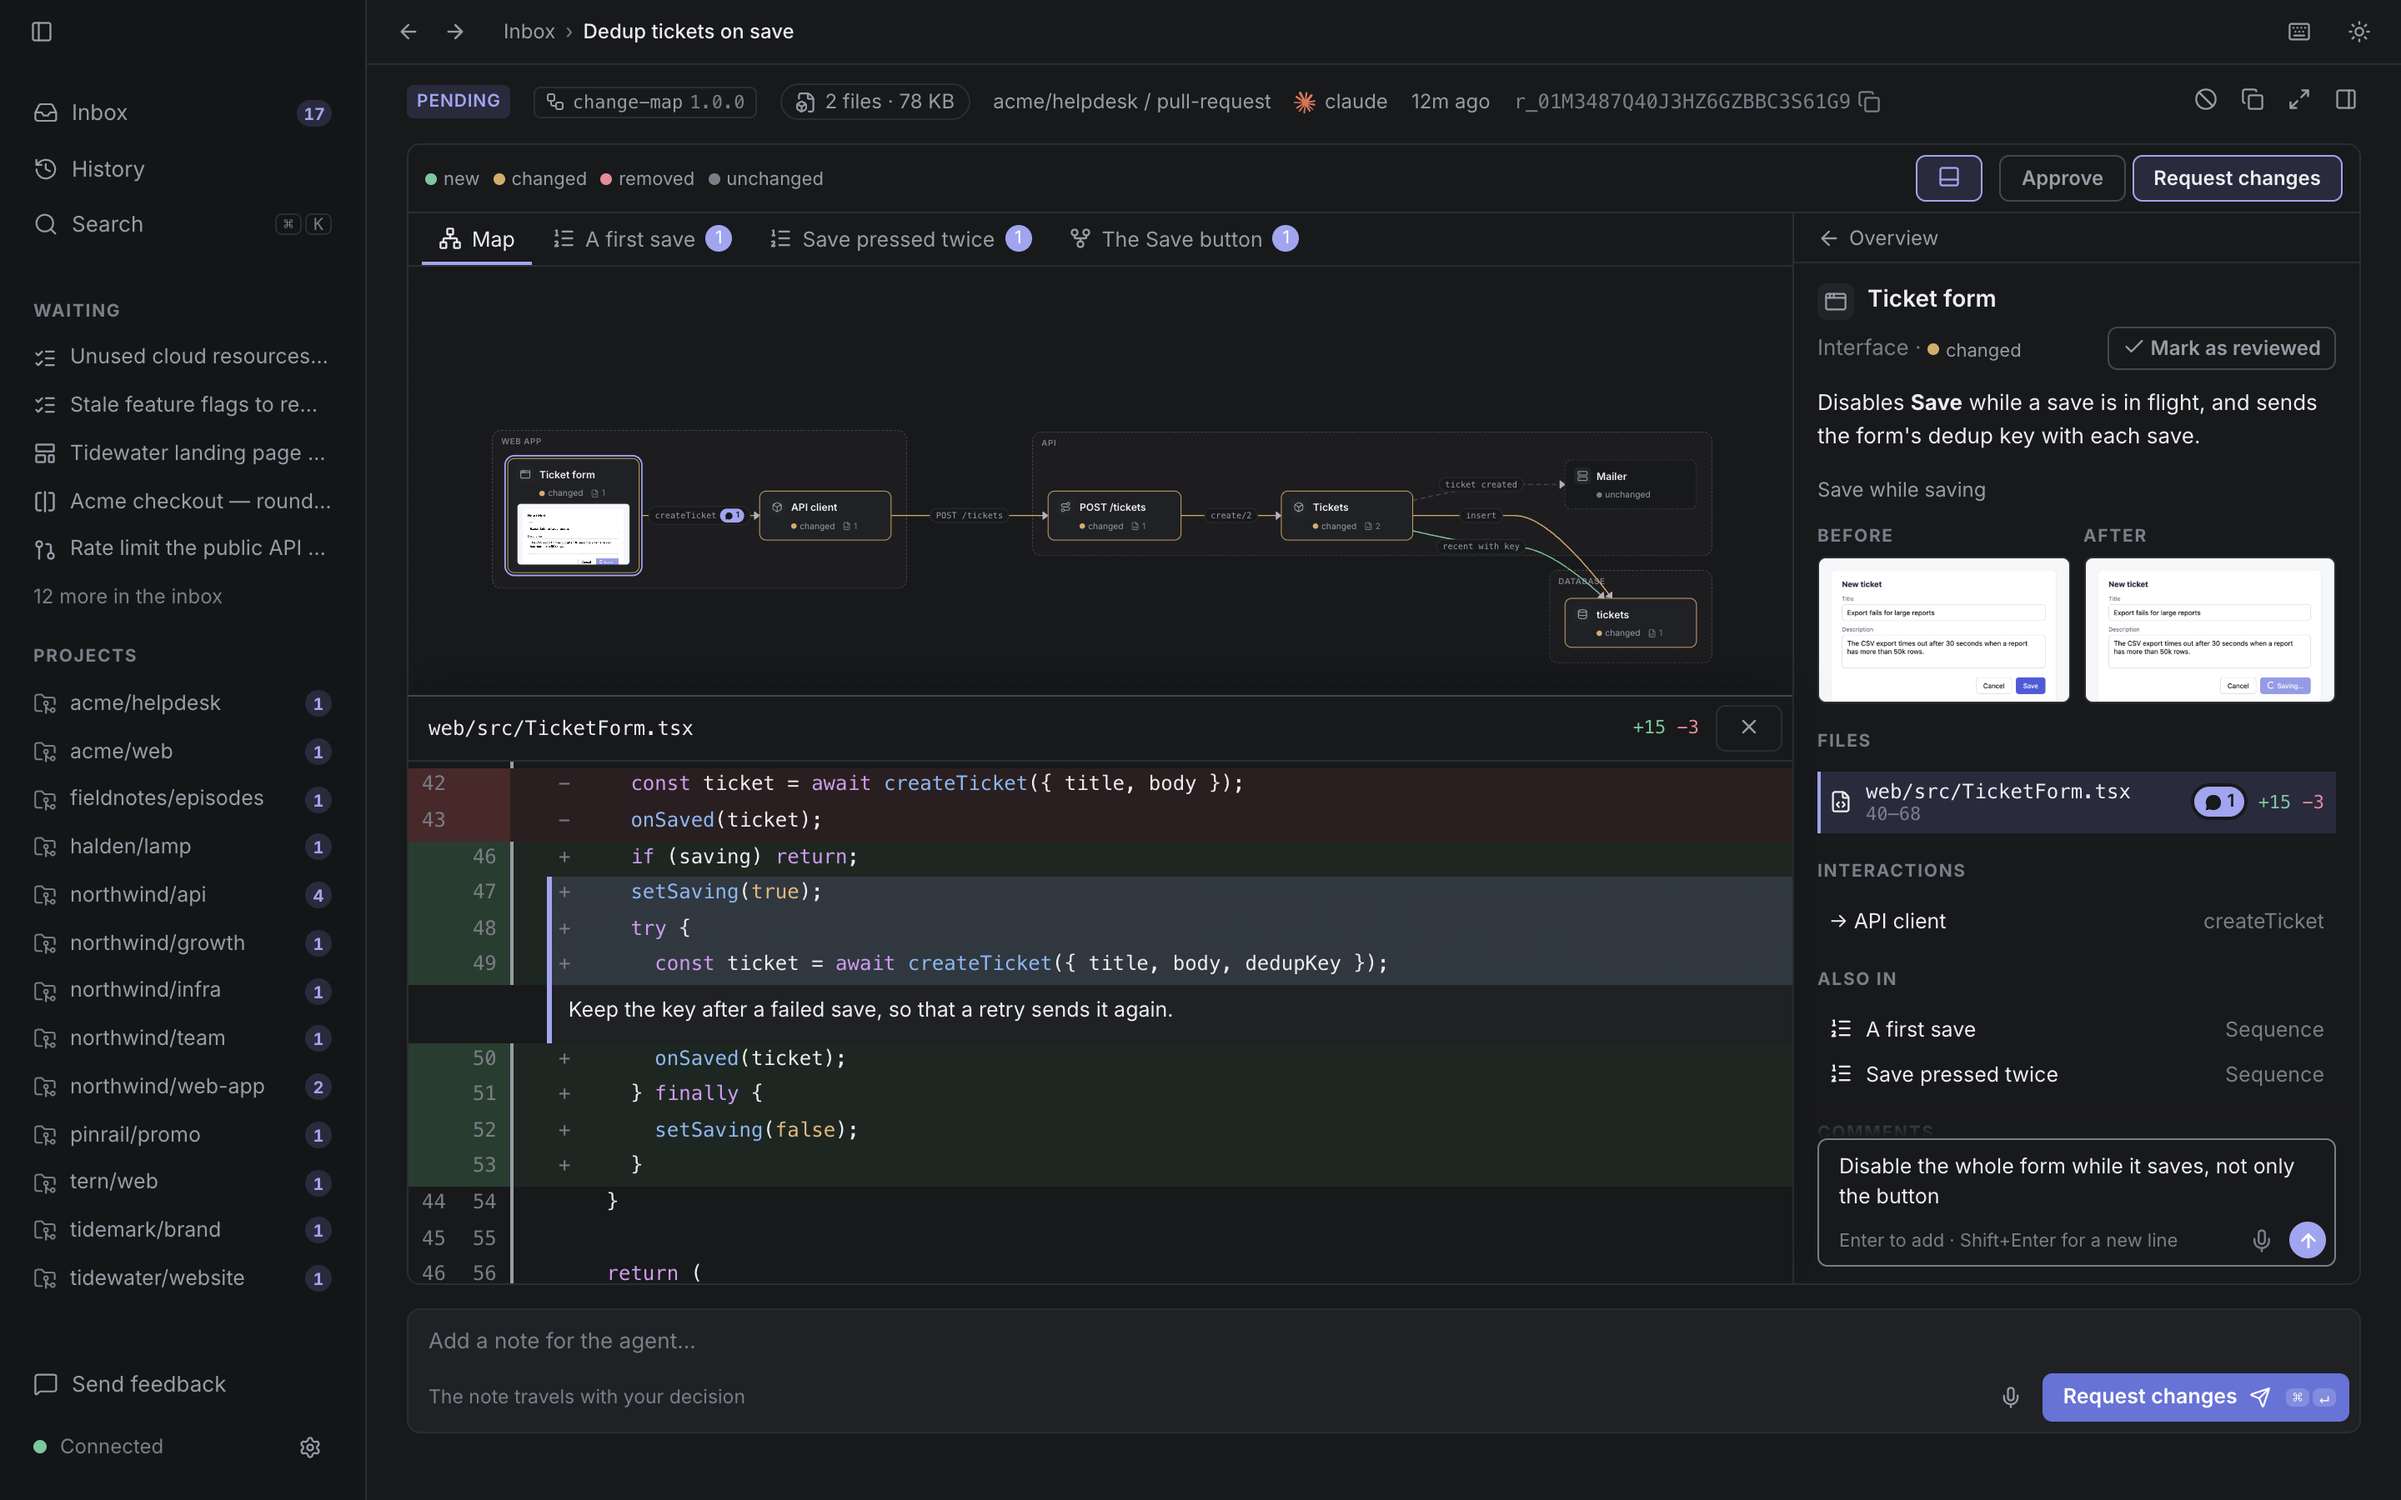
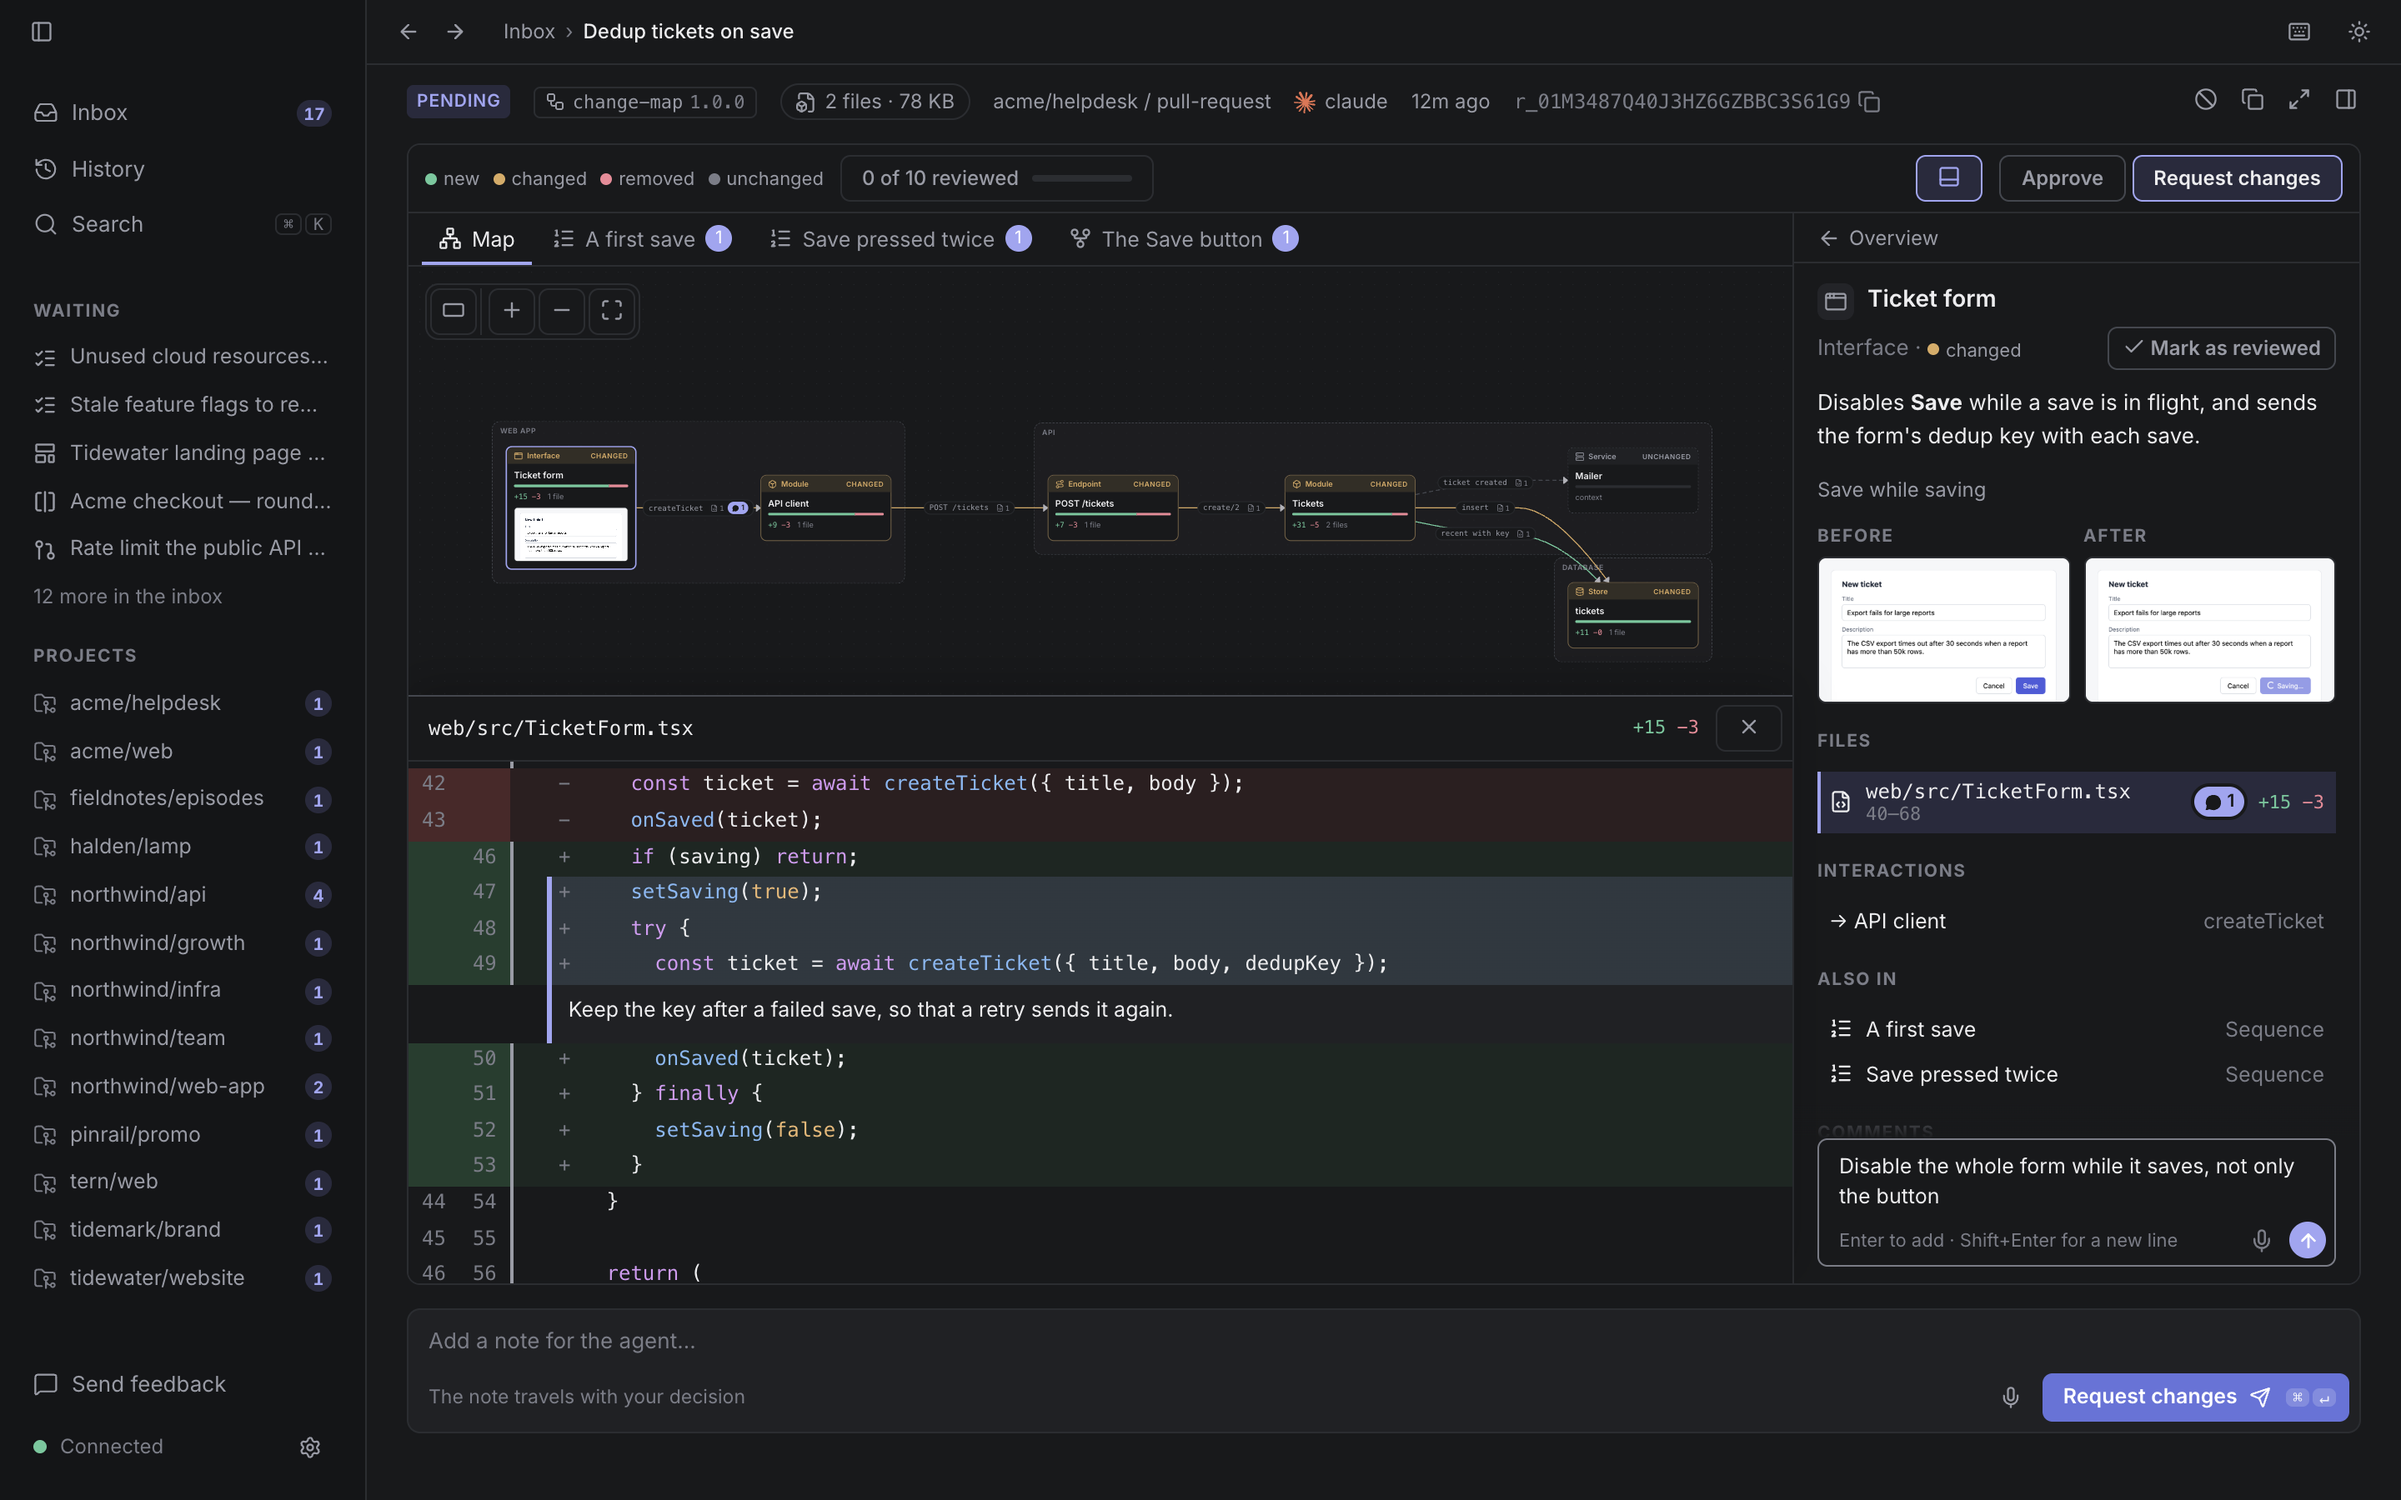
Update the change map docs and screenshots
Assisted-by: Claude Code (Claude Opus 5.5)

diff --git a/docs/plugins/change-map.md b/docs/plugins/change-map.md
@@ -1,6 +1,6 @@
 ---
 title: Change map
-description: "A code change, such as a pull request, reviewed as a diagram of the parts it touches and how they interact, with each part's diff, screenshots before and after, and sequence and state diagrams when the change needs them."
+description: "A code change, such as a pull request, reviewed as a diagram of the parts it touches and how they interact, with each part's diff, screenshots or recordings of the interface, and sequence and state diagrams when the change needs them."
 sidebar:
   badge:
     text: Optional
@@ -11,7 +11,7 @@ sidebar:
 
 The change map plugin turns the review of a code change into a review of its architecture. A pull request, or a branch an agent finished, is shown as a diagram of the parts it touches and the interactions between them, rather than as a list of files. You see what the change does to the system first, and then open the code of any part, its lines highlighted in the diff.
 
-When a diagram of parts is not enough, the agent adds **sequence diagrams** for the order of the calls and **state diagrams** for a lifecycle, so you review how the change behaves as well as what it touches. Parts of the interface carry **screenshots before and after**, so you see what the person using the software will see. Each comment goes back on a part, an interaction, lines of a file, an area of a screenshot or an entity of a diagram, so the agent knows exactly what it is about.
+When a diagram of parts is not enough, the agent adds **sequence diagrams** for the order of the calls and **state diagrams** for a lifecycle, so you review how the change behaves as well as what it touches. Parts of the interface carry **screenshots before and after**, or **recordings** of the part in use, so you see what the person using the software will see. Each comment goes back on a part, an interaction, lines of a file, an area of a screenshot, a moment of a recording or an entity of a diagram, so the agent knows exactly what it is about.
 
 ![The change map plugin: the diagram of a change, with the ticket form selected, its file open in the diff drawer under the diagram with a comment on three lines, and a comment on the part being written in the side panel.](screenshot:change-map "The ticket form selected, its file in the drawer, and a comment on three of its lines.")
 
@@ -19,7 +19,7 @@ When a diagram of parts is not enough, the agent adds **sequence diagrams** for 
 
 - **A pull or merge request** that touches several parts of a system, read as a whole before you read it file by file.
 - **A change an agent made on its own**, reviewed before it opens a pull request or merges.
-- **A change to an interface**, with screenshots of each screen before and after.
+- **A change to an interface**, with screenshots of each screen before and after, or a recording of how it behaves.
 - **A change to a flow or a lifecycle**, such as a retry, a handshake or a new status, explained with sequence and state diagrams for a detailed architectural review.
 
 To review the comments an agent wants to post on a pull request, use [Code review](/docs/plugins/code-review/) instead.
@@ -36,9 +36,28 @@ pinrail plugins install change-map
 
 ### The map
 
-- **A card for each part** of the change, such as a component, a module, an endpoint or a table, grouped into lanes such as *Web app*, *API* and *Database*, and **a line for each interaction** between two parts, labelled with what it does. A part's border and an interaction's line show whether it is new, changed, removed or unchanged. An interaction's label shows how many files implement it, so an interaction without code has no count. A card shows the part's kind and status in a header, and the lines its part of the change adds and removes. The button beside the zoom buttons switches to smaller cards with the title and the status only, and back, and the choice is kept as a setting.
-- **The side panel** with the change's summary, or the selected part or interaction with its summary, its files, its screenshots, the diagrams it appears in and its comments. You can drag the panel's left edge to make it wider. Under the change's summary, a drawer at the bottom of the panel opens the change's files, with their line counts and how many of their lines are off the map. You can filter them, and choosing one opens it in the drawer and highlights the parts, interactions and diagram entities that touch it, while the rest dims, on the map and in the diagrams.
-- **The diff drawer** under the map, with the selected part's files and the lines that implement it highlighted. A changed line that no part, interaction or diagram covers has an amber edge, and the overview says how many of the change's lines are on the map, not counting changelogs and lock files. Selecting another part of the same file scrolls to its lines. The button in the header shows or hides the drawer, and the choice is kept as a setting.
+Each part of the change, such as a component, a module, an endpoint or a table, is a card, and the cards are grouped into lanes such as *Web app*, *API* and *Database*. Each interaction between two parts is a line, labelled with what it does.
+
+- **A card** shows the part's kind and status in a header tinted with the status colour: new, changed, removed or unchanged. Under its title, a bar and two counts show the lines its part of the change adds and removes. A part of the interface also shows its first screenshot.
+- **An interaction's label** shows how many files implement it, so an interaction that no code implements has no count.
+- **The selected part** has a thicker border in the accent colour.
+
+The buttons in the map's top-left corner zoom in and out, fit the map to the view, and switch to compact cards, which show the title and the status only. The choice of cards is kept as a setting.
+
+### The side panel
+
+With nothing selected, the side panel shows the change as a whole:
+
+- **The change's summary**, its branches and a link to it, and how many of the change's changed lines are on the map, not counting changelogs and lock files.
+- **The parts changed**, each with a check on its icon once you have reviewed it and the number of its comments. Choosing one zooms the map in on it.
+- **The diagrams**, and the **other files**, which no part or interaction names.
+- **The files of the change**, in a drawer at the bottom of the panel. Each file shows its line counts and how many of its lines are off the map, and a filter narrows the list. Choosing a file opens it in the diff drawer and highlights the parts, interactions and diagram entities that touch it, while the rest of the map and the diagrams dims.
+
+Selecting a part or an interaction shows its summary, its files, its screenshots, the diagrams it appears in and its comments instead. You can drag the panel's left edge to make it wider.
+
+### The diff drawer
+
+The diff drawer under the map shows the selected part's files, with the lines that implement it highlighted. Selecting another part of the same file scrolls to its lines. A changed line that no part, interaction or diagram covers has an amber edge, and the drawer's header counts those lines. The button in the header shows or hides the drawer, and the choice is kept as a setting.
 
 ### Sequence and state diagrams
 
@@ -48,15 +67,15 @@ A change about the order of things or about a lifecycle is hard to read from a m
 
 ![A sequence diagram in the change map: a second save with the same dedup key, with a retry frame and the conflict reply selected.](screenshot:change-map-sequence "A retried request answered with the ticket the first one created.")
 
-- **A state diagram** shows the states, with a dot for the start and a ringed dot for the end, and the transitions between them, labelled with their event, guard and action. It runs from left to right, and the button beside its zoom buttons lays it out from top to bottom instead, which is kept as a setting.
+- **A state diagram** shows the states, with a dot for the start and a ringed dot for the end, and the transitions between them, labelled with their event, guard and action. It runs from left to right, and a button beside its zoom buttons lays it out from top to bottom instead. That choice is kept as a setting.
 
 ![A state diagram in the change map: the Save button's states Ready and Saving, with a failed save's transition selected.](screenshot:change-map-state "The Save button's states, with the transition back from a failed save selected.")
 
 Every participant, message, state and transition has a status, a summary and the files and lines that implement it, which open in the drawer, as a part of the map does. A participant or a message that stands for a part or an interaction of the map is the same thing as that part or interaction, so its files, comments and reviewed mark are shared and nothing is reviewed twice. The tabs show how many comments each diagram has.
 
-### Screenshots and recordings of interface changes
+### Screenshots of interface changes
 
-A part of the interface, such as a form or a page, can carry screenshots, each with a before and an after. The part's card on the map shows the after as a thumbnail, and the side panel shows each screen in turn. A screen can also be a recording of the part in use, sent as an MP4, MOV or WebM file in place of the screenshots. The side panel shows its first frame, and the drawer plays it, with a scrubber and the time. **Comment on this frame** comments on the frame at the playhead, and a box dragged on the video comments on an area of it. Each comment marks the scrubber at its moment, and its box shows when the playhead is there. A screenshot opens larger in the drawer:
+A part of the interface, such as a form or a page, can carry screenshots, each with a before and an after. The side panel shows each screen in turn, and a screenshot opens larger in the drawer:
 
 - **Side by side**, the before and the after at the same zoom and position, so a detail lines up across both.
 - **With a slider** over the two, which you drag to wipe from the before to the after.
@@ -66,10 +85,16 @@ You zoom with the scroll wheel or to the actual pixels, pan with the hand tool o
 
 ![The change map's screenshot viewer: the ticket form before and after side by side, with a comment on the area of the Save button in the after.](screenshot:change-map-screens "The ticket form before and after, with a comment on the spinner in the Save button.")
 
+### Recordings of interface changes
+
+When a change is about how the interface behaves over time, such as a spinner or a sequence of steps, a screen can be a recording of the part in use instead, an MP4, MOV or WebM file. The side panel shows its first frame with a play mark, and the drawer plays it, with a scrubber and the time.
+
+**Comment on this frame** pauses the recording and comments on the frame at the playhead, and a box dragged on the video comments on an area of that frame. Each comment marks the scrubber at its moment, and its box shows while the playhead is there. In the side panel, a recording's comment names its moment, and choosing it opens the recording there.
+
 ### Comments and reviewed marks
 
-- **Comments** go on a part, on an interaction, on a line or a range of lines in the drawer, on an area of a screenshot, and on an entity of a diagram. The field stays at the bottom of the side panel. Badges on the map, the tabs and the files count the comments.
-- **Reviewed marks** are set on each part, interaction or entity you have read, and go back to the agent. The header counts the parts and interactions the change adds, changes or removes that you have reviewed, and clicking the count goes to the next one left.
+- **Comments** go on a part, an interaction, a line or a range of lines in the drawer, an area of a screenshot, a moment of a recording or an area of its frame, and an entity of a diagram. The field stays at the bottom of the side panel. Badges on the map, the tabs and the files count the comments.
+- **Reviewed marks** are set on each part, interaction or entity you have read, and go back to the agent. The header counts the parts and interactions the change adds, changes or removes that you have reviewed. Clicking the count goes to the next one left.
 
 You choose **Approve** or **Request changes** in the header. Until you choose, comments ask for changes, and a review with none approves. With comments and **Approve**, the hand-over says *Approve with comments*.
 
